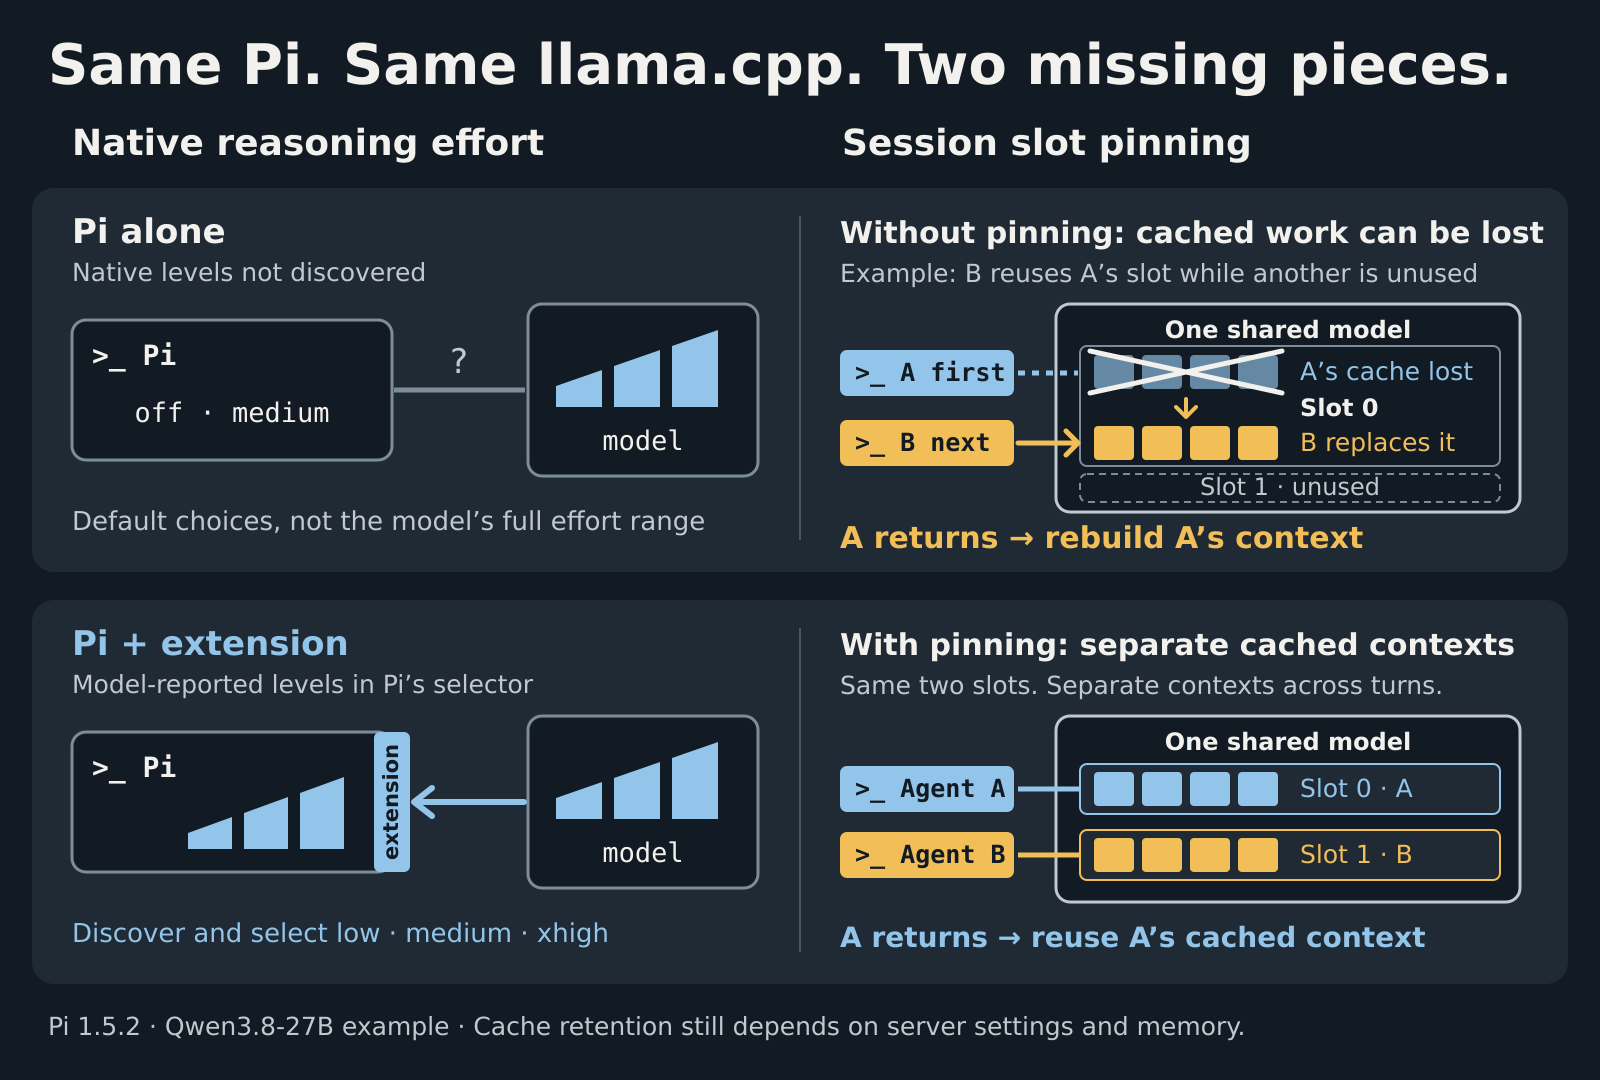
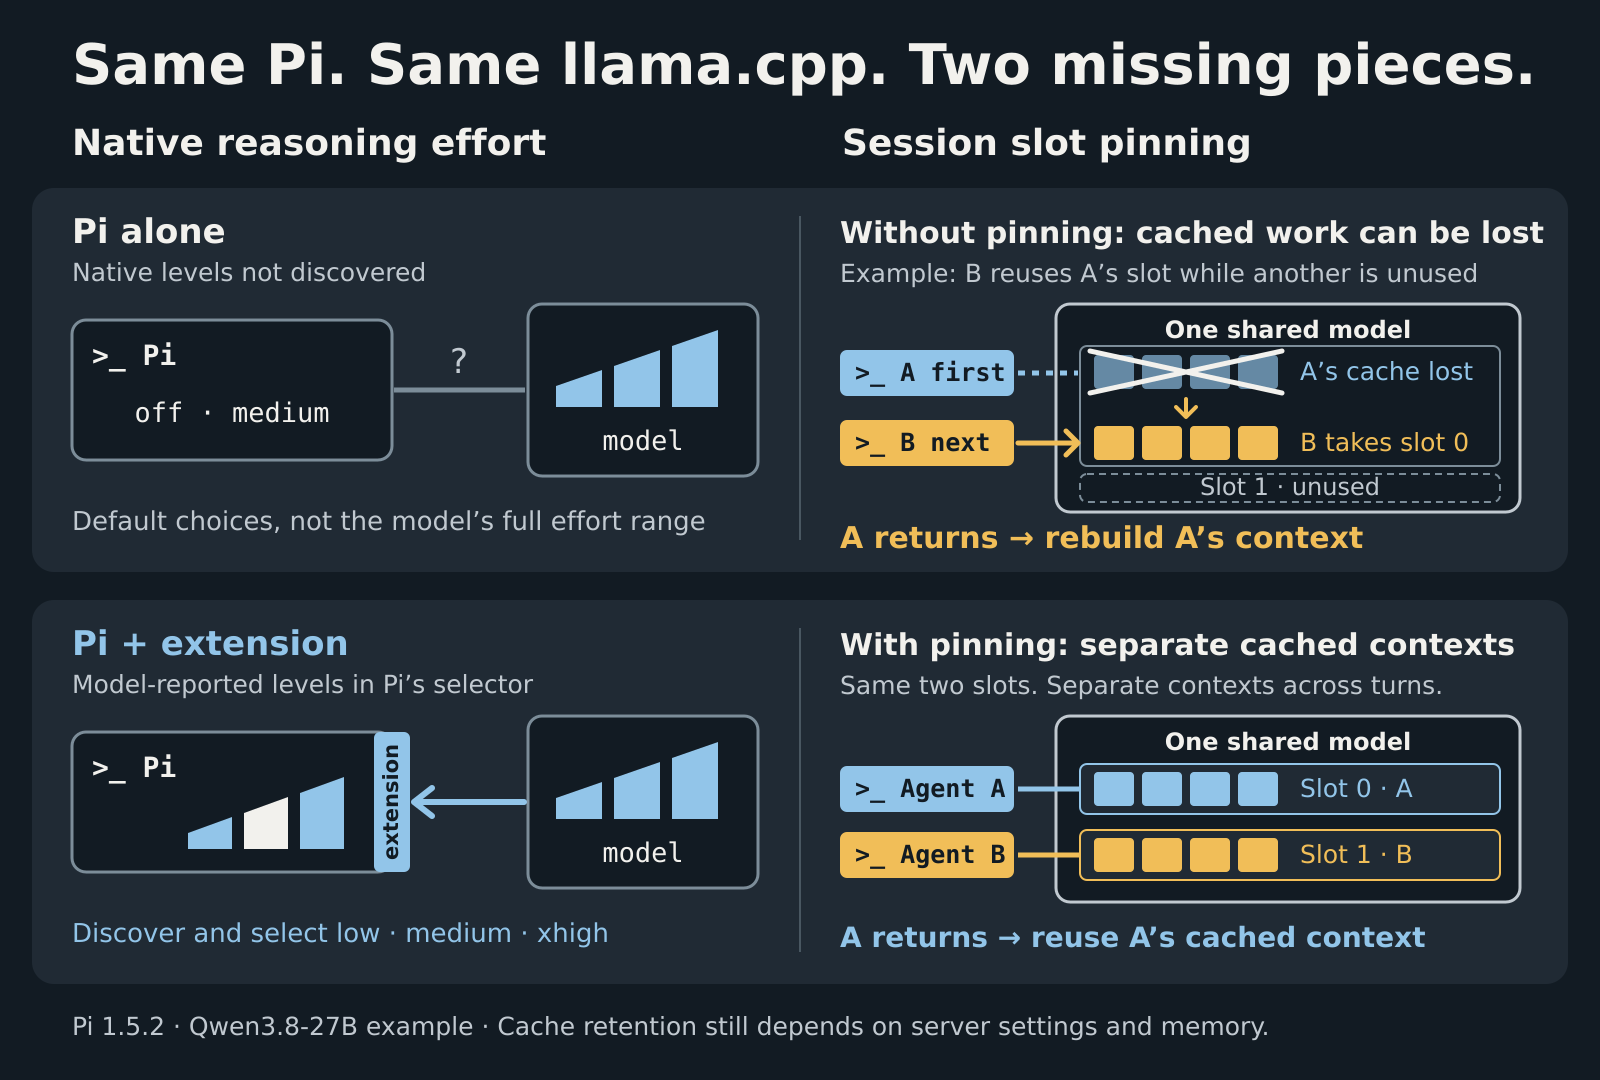
Align README preview with animation cues
Title and footer now align with the content margin. Pi's selector fills the chosen effort in warm white while the other levels stay blue, matching the animation. The unpinned slot labels the displacement inline (A's cache lost / B takes slot 0) instead of a detached slot caption. vision.md documents the rsvg-convert render step.

diff --git a/vision.md b/vision.md
@@ -130,7 +130,7 @@ A live check with three independent Pi processes observed slots 0/1/2 busy toget
 
 Open the HTML in a browser; click or Space pauses, arrow keys step between scenes. `?verify&t=17` freezes an exact point for inspection. Reduced-motion preferences start playback paused. Canvas rendering uses the same deterministic `renderAt(seconds)` timeline for playback and export, avoiding compositor timing differences.
 
-Run `node media/render-preview.mjs` with Node 22+, Chromium, FFmpeg with libx264, ImageMagick, and gifsicle on PATH. It renders `media/pi-preview.gif` (320×200, 32-colour palette, then gifsicle `-O3` to merge identical held frames and store only changed regions) and a 640×400 H.264 MP4 at 10 fps, plus `/tmp/pi-animation-storyboard.png`. The compact GIF keeps the full timing and holds at 67 KB instead of 108 KB. The GIF holds the simplified static `media/preview.png` for 3.5 seconds before the 26.5-second animation (30 seconds total); the MP4 runs for 26.5 seconds. Export durations come from the HTML timeline to keep playback and encoded timing aligned. Both exports retain the gallery’s 16:10 aspect ratio. Following pi-herdr-flock’s metadata convention, `pi.image` points to `media/pi-preview.gif` and `pi.video` to `media/preview-animation.mp4`. The README uses the separate detailed comparison at `media/readme-preview.png`; `media/preview.png` remains the static thumbnail asset.
+Run `node media/render-preview.mjs` with Node 22+, Chromium, FFmpeg with libx264, ImageMagick, and gifsicle on PATH. It renders `media/pi-preview.gif` (320×200, 32-colour palette, then gifsicle `-O3` to merge identical held frames and store only changed regions) and a 640×400 H.264 MP4 at 10 fps, plus `/tmp/pi-animation-storyboard.png`. The compact GIF keeps the full timing and holds at 67 KB instead of 108 KB. The GIF holds the simplified static `media/preview.png` for 3.5 seconds before the 26.5-second animation (30 seconds total); the MP4 runs for 26.5 seconds. Export durations come from the HTML timeline to keep playback and encoded timing aligned. Both exports retain the gallery’s 16:10 aspect ratio. Following pi-herdr-flock’s metadata convention, `pi.image` points to `media/pi-preview.gif` and `pi.video` to `media/preview-animation.mp4`. The README uses the separate detailed comparison at `media/readme-preview.png`; `media/preview.png` remains the static thumbnail asset. Render that comparison from `media/readme-preview.svg` with `rsvg-convert -w 1600 -h 1080 media/readme-preview.svg -o media/readme-preview.png`, and keep the SVG as its source. The static comparison reuses the animation's cues: the chosen effort is filled in Pi's warm white while the other levels stay blue, cache blocks are owned by agent colour, and the unpinned slot is labelled "A's cache lost" / "B takes slot 0" instead of a separate slot caption.
 
 ## Information flow
 
